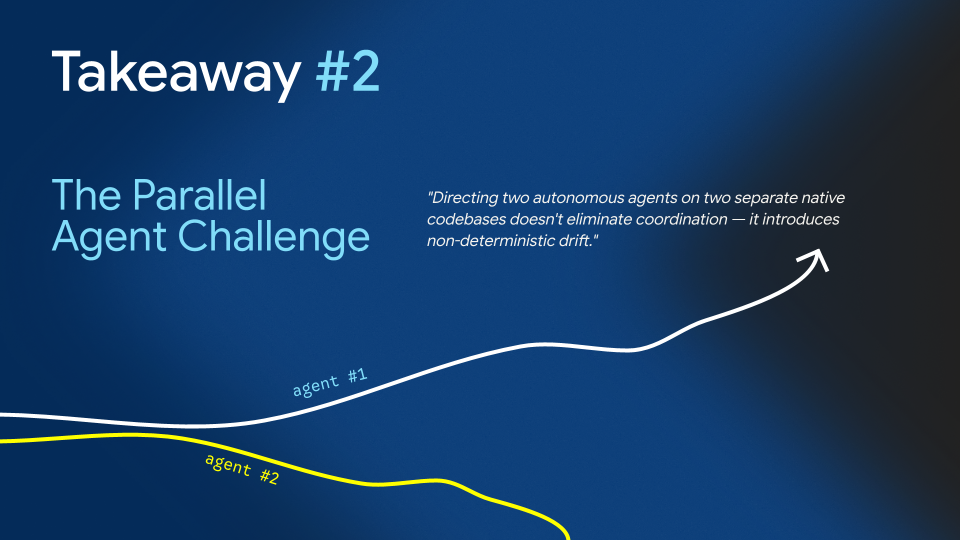
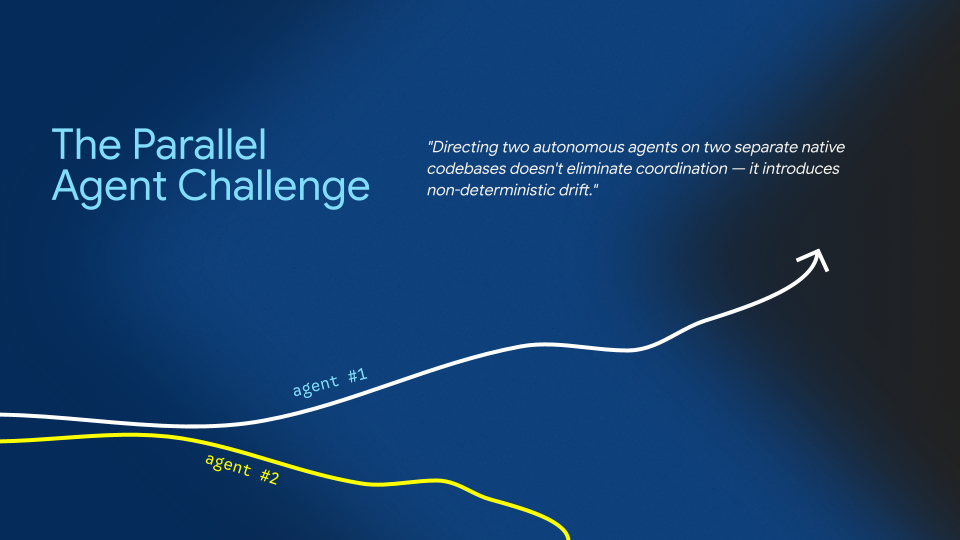
Update parallel-agent-challenge image without Takeaway 2 label

Changed region(s): [[0.4375, 0.2667, 0.875, 0.4741], [0.0312, 0.237, 0.4062, 0.4741], [0.0312, 0.0889, 0.4062, 0.2074]]

diff --git a/sites/www/content/blog/ai-makes-it-easy-to-migrate-flutter-makes-it-easy-to-scale/index.md b/sites/www/content/blog/ai-makes-it-easy-to-migrate-flutter-makes-it-easy-to-scale/index.md
@@ -75,7 +75,7 @@ two agents working in separate language paradigms make diverging assumptions:
 - **On Android:** Agent B implements that same state machine using a reactive
   flow that queues events.
 
-<DashImage src="images/parallel-agent-challenge.webp" alt="Takeaway 2: The Parallel Agent Challenge. Directing two autonomous agents on two separate native codebases doesn't eliminate coordination — it introduces non-deterministic drift, shown as two agent trajectories diverging over time." />
+<DashImage src="images/parallel-agent-challenge.webp" alt="The Parallel Agent Challenge. Directing two autonomous agents on two separate native codebases doesn't eliminate coordination — it introduces non-deterministic drift, shown as two agent trajectories diverging over time." />
 
 Both implementations pass local unit tests on Day 1. Weeks later in production,
 Android checkout conversion drops by 3% because retry timing, for example,
